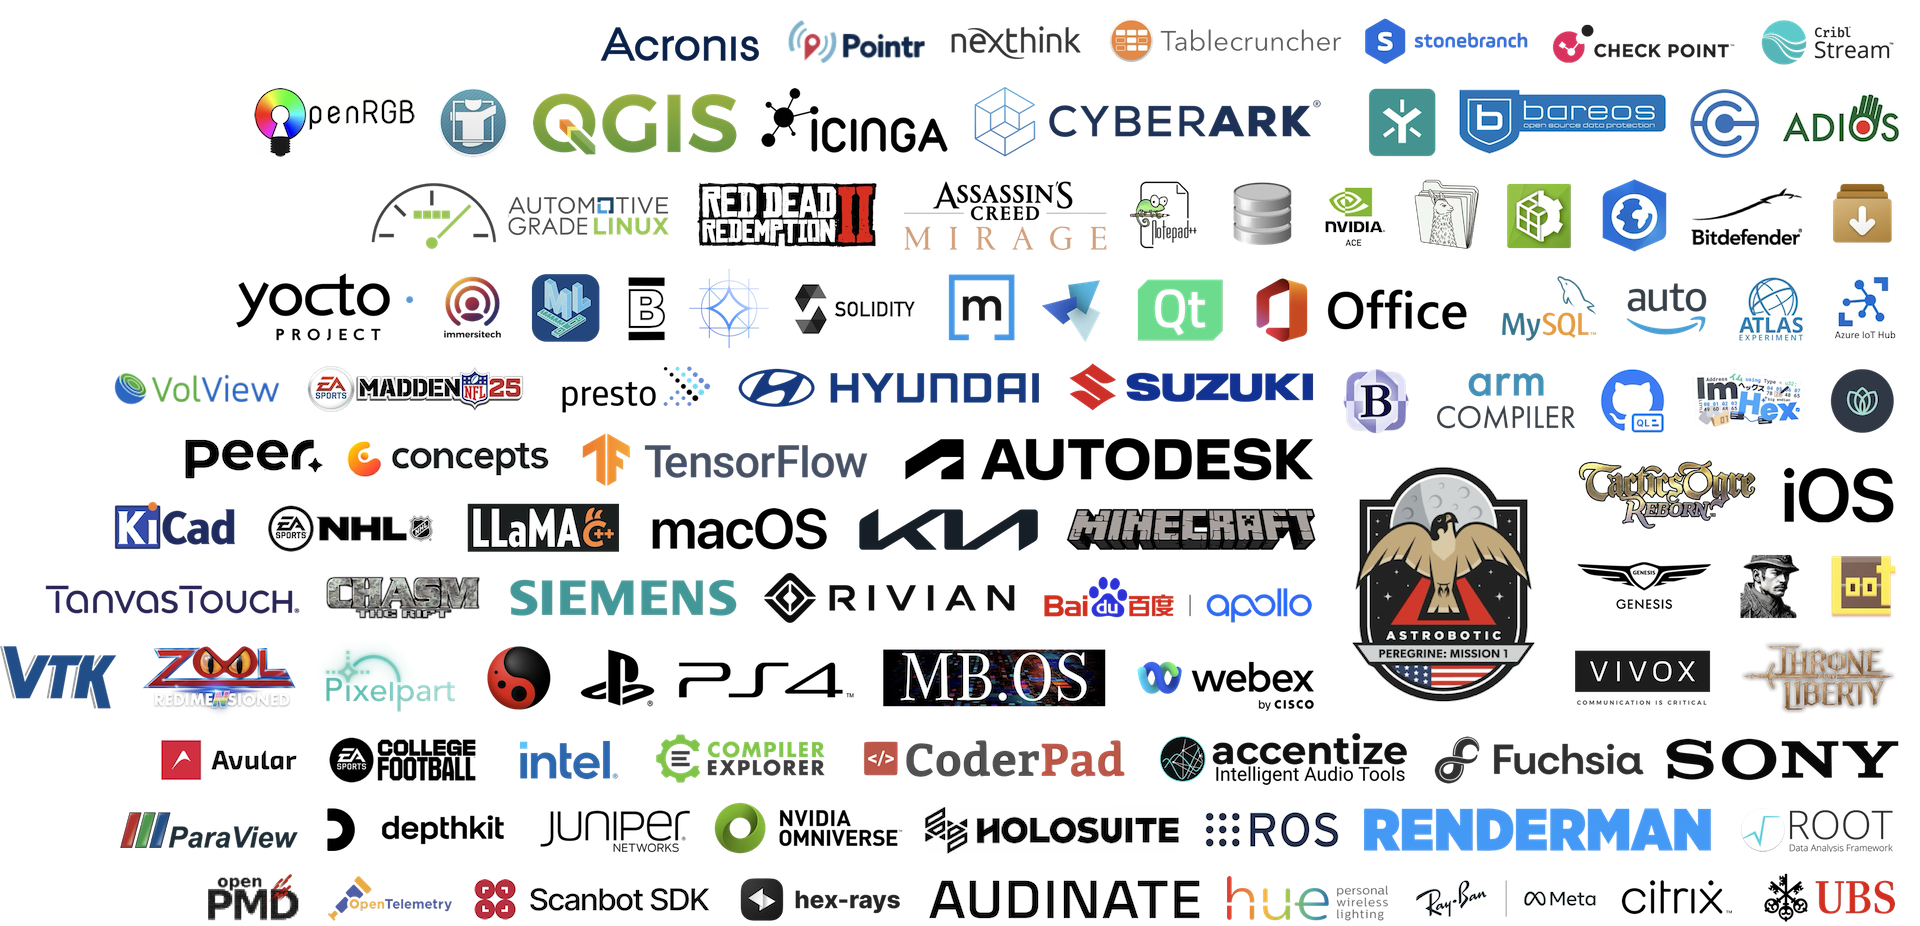
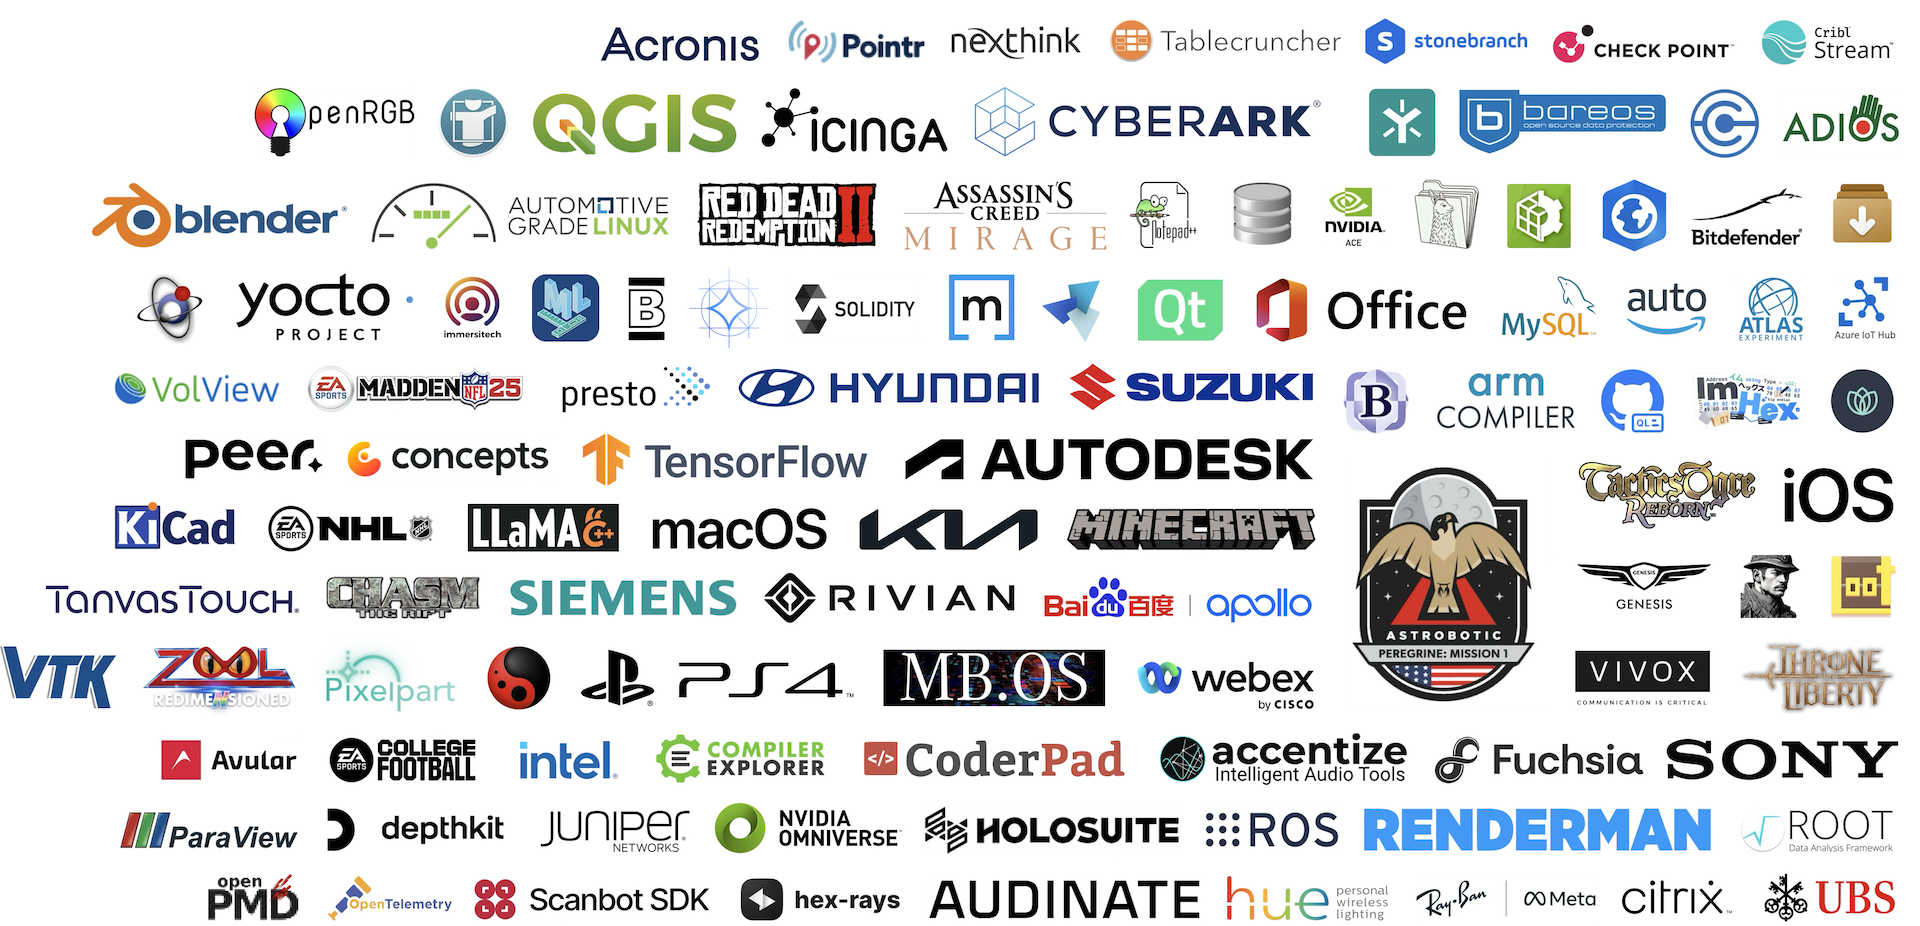
Replace EOF with char_traits (#4532)
* :memo: update customers

* :recycle: replace EOF with char_traits #2755

diff --git a/single_include/nlohmann/json.hpp b/single_include/nlohmann/json.hpp
@@ -3273,10 +3273,10 @@ NLOHMANN_JSON_NAMESPACE_END
 
 
 #include <limits> // numeric_limits
+#include <string> // char_traits
+#include <tuple> // tuple
 #include <type_traits> // false_type, is_constructible, is_integral, is_same, true_type
 #include <utility> // declval
-#include <tuple> // tuple
-#include <string> // char_traits
 
 // #include <nlohmann/detail/iterators/iterator_traits.hpp>
 //     __ _____ _____ _____
@@ -3658,7 +3658,7 @@ struct char_traits<unsigned char> : std::char_traits<char>
 
     static constexpr int_type eof() noexcept
     {
-        return static_cast<int_type>(EOF);
+        return static_cast<int_type>(std::char_traits<char>::eof());
     }
 };
 
@@ -3682,7 +3682,7 @@ struct char_traits<signed char> : std::char_traits<char>
 
     static constexpr int_type eof() noexcept
     {
-        return static_cast<int_type>(EOF);
+        return static_cast<int_type>(std::char_traits<char>::eof());
     }
 };
 

diff --git a/include/nlohmann/detail/meta/type_traits.hpp b/include/nlohmann/detail/meta/type_traits.hpp
@@ -9,10 +9,10 @@
 #pragma once
 
 #include <limits> // numeric_limits
+#include <string> // char_traits
+#include <tuple> // tuple
 #include <type_traits> // false_type, is_constructible, is_integral, is_same, true_type
 #include <utility> // declval
-#include <tuple> // tuple
-#include <string> // char_traits
 
 #include <nlohmann/detail/iterators/iterator_traits.hpp>
 #include <nlohmann/detail/macro_scope.hpp>
@@ -211,7 +211,7 @@ struct char_traits<unsigned char> : std::char_traits<char>
 
     static constexpr int_type eof() noexcept
     {
-        return static_cast<int_type>(EOF);
+        return static_cast<int_type>(std::char_traits<char>::eof());
     }
 };
 
@@ -235,7 +235,7 @@ struct char_traits<signed char> : std::char_traits<char>
 
     static constexpr int_type eof() noexcept
     {
-        return static_cast<int_type>(EOF);
+        return static_cast<int_type>(std::char_traits<char>::eof());
     }
 };
 

diff --git a/docs/mkdocs/docs/home/customers.md b/docs/mkdocs/docs/home/customers.md
@@ -3,7 +3,7 @@
 The library is used in multiple projects, applications, operating systems, etc. The list below is not exhaustive, but
 the result of an internet search. If you know further customers of the library, [please let me know](mailto:mail@nlohmann.me).
 
-![](../images/customers.png)
+[![](../images/customers.png)](../images/customers.png)
 
 ## Space Exploration
 
@@ -70,6 +70,7 @@ the result of an internet search. If you know further customers of the library, 
 - [**ImHex**](https://github.com/WerWolv/ImHex), a hex editor designed for reverse engineering, providing advanced features for data analysis and manipulation
 - [**Intel GPA Framework**](https://intel.github.io/gpasdk-doc/src/licenses.html), a suite of cross-platform tools for capturing, analyzing, and optimizing graphics applications across different APIs
 - [**Meta Yoga**](https://github.com/facebook/yoga), a layout engine that facilitates flexible and efficient user interface design across multiple platforms
+- [**MKVToolNix**](https://mkvtoolnix.download/doc/README.md), a set of tools for creating, editing, and inspecting MKV (Matroska) multimedia container files
 - [**NVIDIA Nsight Compute**](https://docs.nvidia.com/nsight-compute/2022.2/pdf/CopyrightAndLicenses.pdf), a performance analysis tool for CUDA applications that provides detailed insights into GPU performance metrics
 - [**Notepad++**](https://github.com/notepad-plus-plus/notepad-plus-plus), a free source code editor that supports various programming languages
 - [**OpenRGB**](https://gitlab.com/CalcProgrammer1/OpenRGB), an open source RGB lighting control that doesn't depend on manufacturer software
@@ -129,6 +130,7 @@ the result of an internet search. If you know further customers of the library, 
 
 - [**Arcturus HoloSuite**](https://www.datocms-assets.com/104353/1698904597-holosuite-third-party-software-credits-and-attributions-2.pdf), a software toolset for capturing, editing, and streaming volumetric video, featuring advanced compression technologies for high-quality 3D content creation
 - [**azul**](https://pure.tudelft.nl/ws/files/85338589/tgis.12673.pdf), a fast and efficient 3D city model viewer designed for visualizing urban environments and spatial data
+- [**Blender**](https://projects.blender.org/blender/blender/search?q=nlohmann), a free and open-source 3D creation suite for modeling, animation, rendering, and more
 - [**cpplot**](https://cpplot.readthedocs.io/en/latest/library_api/function_eigen_8h_1ac080eac0541014c5892a55e41bf785e6.html), a library for creating interactive graphs and charts in C++, which can be viewed in web browsers
 - [**NVIDIA Omniverse**](https://docs.omniverse.nvidia.com/composer/latest/common/product-licenses/usd-explorer/usd-explorer-2023.2.0-licenses-manifest.html), a platform for 3D content creation and collaboration that enables real-time simulations and interactive experiences across various industries
 - [**Pixar Renderman**](https://rmanwiki-26.pixar.com/space/REN26/19662083/Legal+Notice), a photorealistic 3D rendering software developed by Pixar, widely used in the film industry for creating high-quality visual effects and animations
